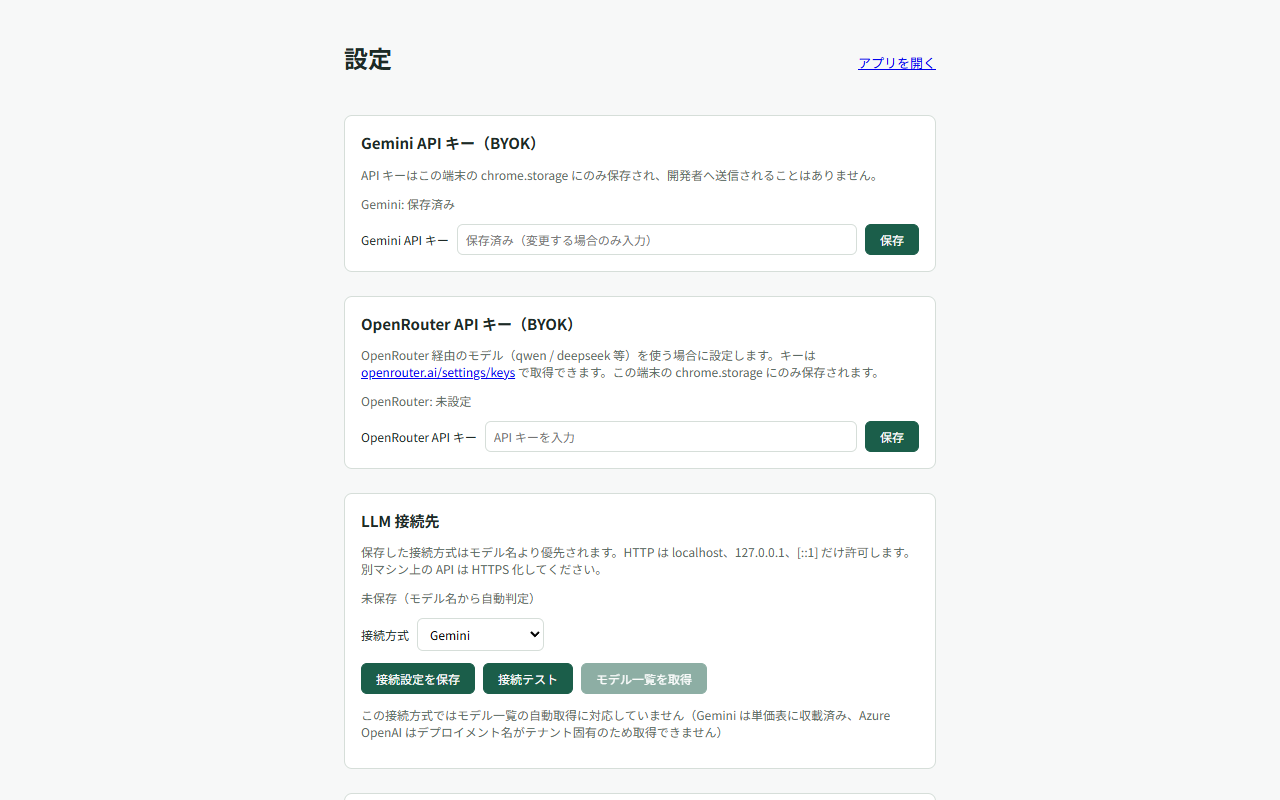
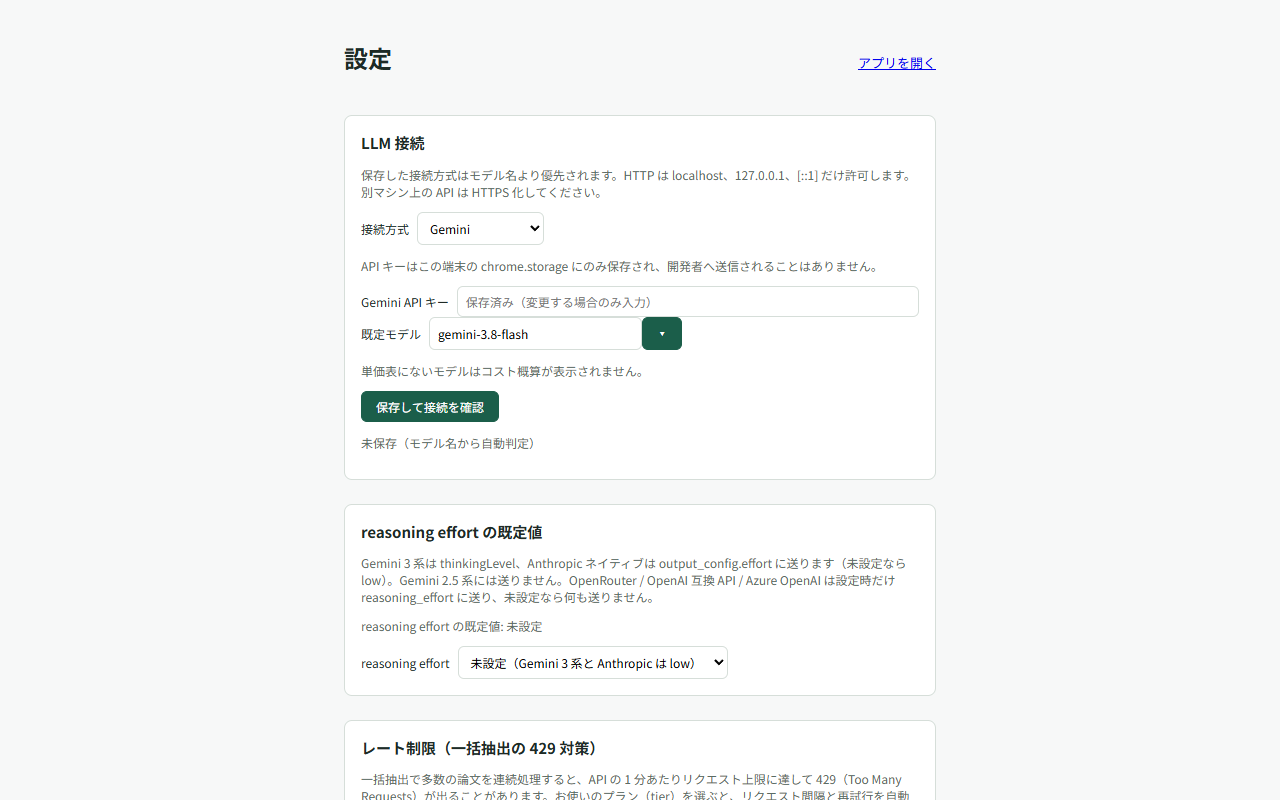
公開ページを再デプロイ（2026-10-17・master c0e3523）

Changed region(s): [[0.2812, 0.625, 0.7188, 1.0], [0.2812, 0.1562, 0.7188, 0.5625], [0.6562, 0.5, 0.7188, 0.5938]]

diff --git a/help.html b/help.html
@@ -3,7 +3,7 @@
      正典はこのファイル（master の hosted/）。デプロイ手順は hosted/README.md を参照。
      内容はワークフローレベルに留める（画面細部はアプリ内のリード文が担う。issue #214 §3）。
      文言は ja / en を両方持ち、表示は lang.js + CSS が片方だけに絞る（併記しない）。
-     version: 2026-10-11 -->
+     version: 2026-10-17 -->
 <html lang="ja">
   <head>
     <meta charset="utf-8" />
@@ -53,8 +53,8 @@
           <span class="en" lang="en">User guide</span>
         </h1>
         <p class="last-updated">
-          <span class="ja" lang="ja">最終更新: 2026-10-11 / 対象バージョン: v0.17.0</span>
-          <span class="en" lang="en">Last updated: 2026-10-11 / Covers v0.17.0</span>
+          <span class="ja" lang="ja">最終更新: 2026-10-17 / 対象バージョン: v0.19.0</span>
+          <span class="en" lang="en">Last updated: 2026-10-17 / Covers v0.19.0</span>
         </p>
 
         <nav class="toc" aria-label="目次" data-en-aria-label="Table of contents">
@@ -119,8 +119,8 @@
             </li>
             <li>
               <a href="#dual-review"
-                ><span class="ja" lang="ja">独立二重レビューと裁定</span
-                ><span class="en" lang="en">Independent dual review and adjudication</span></a
+                ><span class="ja" lang="ja">独立二重レビューと不一致の解消</span
+                ><span class="en" lang="en">Independent dual review and conflict resolution</span></a
               >
             </li>
             <li>
@@ -247,16 +247,16 @@
             <a href="screenshots/help-01-setup.png" target="_blank" rel="noopener noreferrer">
               <img
                 src="screenshots/help-01-setup.png"
-                alt="設定画面の上部。Gemini と OpenRouter の API キーの入力欄、LLM 接続先（接続方式の選択と「接続設定を保存」「接続テスト」のボタン）が縦に並ぶ"
-                data-en-alt="Top of the Options page: the Gemini and OpenRouter API key fields, then the LLM endpoint card with the connection type selector and the “Save connection settings” and “Test connection” buttons"
+                alt="設定画面の上部。LLM 接続の節に、接続方式の選択、API キーの入力欄、既定モデルの選択、「保存して接続を確認」のボタンが縦に並ぶ"
+                data-en-alt="Top of the Options page: the LLM connection card with the connection type selector, the API key field, the default model selector and the “Save and check connection” button"
                 width="1280"
                 height="800"
                 loading="lazy"
               />
             </a>
             <figcaption>
-              <span class="ja" lang="ja">設定画面の上部。API キーを入れて「保存」し、接続方式を選んで「接続テスト」で通るか確かめます。</span>
-              <span class="en" lang="en">The top of the Options page. Enter an API key and press Save, then choose the connection type and run the connection test.</span>
+              <span class="ja" lang="ja">設定画面の上部。接続方式を選び、API キーとモデルを入れて「保存して接続を確認」を押します。</span>
+              <span class="en" lang="en">The top of the Options page. Choose the connection type, enter an API key and a model, and press “Save and check connection”.</span>
             </figcaption>
           </figure>
           <div class="note">
@@ -443,10 +443,10 @@
           </p>
           <p>
             <span class="ja" lang="ja"
-              >グループに担当者をちょうど 2 名指定すると、その 2 名を裁定のペアとして使います。それ以外は実データからペアを推定します。担当外の判定は裁定・一致度から除外されます。裁定画面で「一致度を計算」を押すと、「キャリブレーションの一致度」でペア別の一致度も確認できます。</span
+              >グループに担当者をちょうど 2 名指定すると、その 2 名を裁定のペアとして使います。それ以外は実データからペアを推定します。担当外の判定は裁定・一致度から除外されます。不一致の解消画面で「一致度を計算」を押すと、「キャリブレーションの一致度」でペア別の一致度も確認できます。</span
             >
             <span class="en" lang="en"
-              >A group with exactly two assigned reviewers uses those reviewers as its adjudication pair; otherwise, the pair is inferred from recorded data. Judgments outside the assigned pair are excluded from adjudication and agreement. Press “Compute agreement” on the adjudication screen to also see agreement by pair under “Calibration agreement”.</span
+              >A group with exactly two assigned reviewers uses those reviewers as its adjudication pair; otherwise, the pair is inferred from recorded data. Judgments outside the assigned pair are excluded from adjudication and agreement. Press “Compute agreement” on the “Resolve conflicts” screen to also see agreement by pair under “Calibration agreement”.</span
             >
           </p>
           <h3 id="project-tours">
@@ -487,8 +487,8 @@
               >
             </li>
             <li>
-              <span class="ja" lang="ja"><strong>二重レビューと裁定</strong>: レビュアーの登録、担当セットの分割、不一致の裁定までを案内します。 オーナーに、取り込んだ文献があるときに表示されます。</span>
-              <span class="en" lang="en"><strong>Dual review and adjudication</strong>: Register reviewers, split assignment sets, and adjudicate disagreements. Shown to the owner once documents have been imported.</span>
+              <span class="ja" lang="ja"><strong>二重レビューと不一致の解消</strong>: レビュアーの登録、担当セットの分割、不一致の裁定までを案内します。 オーナーに、取り込んだ文献があるときに表示されます。</span>
+              <span class="en" lang="en"><strong>Dual review and conflict resolution</strong>: Register reviewers, split assignment sets, and adjudicate disagreements. Shown to the owner once documents have been imported.</span>
               <a href="https://youtu.be/BuGpgS_6HRw" target="_blank" rel="noopener noreferrer"
                 ><span class="ja" lang="ja">▶ 動画で見る（1:48）</span
                 ><span class="en" lang="en">▶ Watch video (1:48)</span></a
@@ -1157,10 +1157,10 @@
           </h3>
           <p>
             <span class="ja" lang="ja"
-              >検証画面または裁定画面で試験を開き、「論文に質問（AI）」を展開します。質問を入力し、入力トークン数と費用の概算を確認して「送信」を押します。オーナー・AI を使うレビュアー・裁定者が利用でき、独立入力のレビュアーには表示されません。</span
+              >検証画面または不一致の解消画面で試験を開き、「論文に質問（AI）」を展開します。質問を入力し、入力トークン数と費用の概算を確認して「送信」を押します。オーナー・AI を使うレビュアー・裁定者が利用でき、独立入力のレビュアーには表示されません。</span
             >
             <span class="en" lang="en"
-              >Open a study in verification or adjudication and expand “Ask the paper (AI)”. Enter a question, check the estimated input tokens and cost, then press “Send”. The panel is available to the owner, reviewers working with AI and adjudicators; it is hidden from independent reviewers.</span
+              >Open a study in verification or “Resolve conflicts” and expand “Ask the paper (AI)”. Enter a question, check the estimated input tokens and cost, then press “Send”. The panel is available to the owner, reviewers working with AI and adjudicators; it is hidden from independent reviewers.</span
             >
           </p>
           <p>
@@ -1199,10 +1199,10 @@
           </h3>
           <p>
             <span class="ja" lang="ja"
-              >検証・パイロット・裁定の画面には、保存中の件数が「保存中（1 件）」のように表示されます。表示が消えるまでタブを開いておいてください。保存中に閉じる・再読み込みなどでページを離れようとすると、ブラウザが確認を求めます。</span
+              >検証・パイロット・不一致の解消の画面には、保存中の件数が「保存中（1 件）」のように表示されます。表示が消えるまでタブを開いておいてください。保存中に閉じる・再読み込みなどでページを離れようとすると、ブラウザが確認を求めます。</span
             >
             <span class="en" lang="en"
-              >Verification, pilot and adjudication screens show the number of pending saves, for example “Saving (1)”. Keep the tab open until the indicator disappears. If you try to close, reload or otherwise leave the page while saves are pending, the browser asks for confirmation.</span
+              >Verification, pilot and “Resolve conflicts” screens show the number of pending saves, for example “Saving (1)”. Keep the tab open until the indicator disappears. If you try to close, reload or otherwise leave the page while saves are pending, the browser asks for confirmation.</span
             >
           </p>
         </section>
@@ -1263,9 +1263,13 @@
 
         <section id="dual-review">
           <h2>
-            <span class="ja" lang="ja">10. 独立二重レビューと裁定</span>
-            <span class="en" lang="en">10. Independent dual review and adjudication</span>
+            <span class="ja" lang="ja">10. 独立二重レビューと不一致の解消</span>
+            <span class="en" lang="en">10. Independent dual review and conflict resolution</span>
           </h2>
+          <p>
+            <span class="ja" lang="ja">検証画面には自分の判定だけが表示されます。オーナーと裁定者には「不一致の解消」への案内が表示され、自分が表示中の論文の判定を終えると「不一致を確認」からその論文へ移動できます。ほかに検証を終えた人の人数も表示されます。オーナーのダッシュボードには、自分も含めた「検証済みの人数」と、その論文の不一致の解消へのリンクが表示されます。人数は自分の判定完了後に読み込みます。検証画面では読み込み中の案内を表示し、失敗時は人数を省略します。ダッシュボードでは集計後に人数を読み込み、読み込み中・失敗時は「—」を表示します。不一致の解消では、判定の保存中は完了を待ってから一覧を更新します。レビュアーにはこれらの案内や人数は表示されません。</span>
+            <span class="en" lang="en">Verification shows only your own decisions. Owners and adjudicators see a link to “Resolve conflicts”. After completing the current study, use “Check conflicts” to open that study; the number of other reviewers who have finished is also shown. The owner's dashboard shows “Completed reviewers”, including the owner, with a link to resolve conflicts for that study. Counts load after you finish your decisions. Verification shows a loading message and omits the count if loading fails. The dashboard loads counts after its summary and shows “—” while loading or unavailable. Resolve conflicts waits for pending decisions to finish saving before refreshing the list. Reviewers do not see these links or counts.</span>
+          </p>
           <p>
             <span class="ja" lang="ja"
               >2 名で独立に抽出し、不一致を裁定する運用に対応しています。オーナーが Home
@@ -1282,16 +1286,16 @@
             <a href="screenshots/help-10-dual-review.png" target="_blank" rel="noopener noreferrer">
               <img
                 src="screenshots/help-10-dual-review.png"
-                alt="裁定画面。群構成の突き合わせ、左に PDF、右に不一致のセルの表（A と B の値が食い違う「群の N」）が見える"
-                data-en-alt="Adjudication screen: the arm matching card, the PDF on the left, and on the right the table of disagreeing cells (the arm N differs between reviewers A and B)"
+                alt="不一致の解消画面。群構成の突き合わせ、左に PDF、右に不一致のセルの表（A と B の値が食い違う「群の N」）が見える"
+                data-en-alt="Resolve conflicts screen: the arm matching card, the PDF on the left, and on the right the table of disagreeing cells (the arm N differs between reviewers A and B)"
                 width="1280"
                 height="800"
                 loading="lazy"
               />
             </a>
             <figcaption>
-              <span class="ja" lang="ja">裁定画面。2 人の判定が食い違うセルだけを表示し、根拠を見ながら確定します。</span>
-              <span class="en" lang="en">The adjudication screen. Only the cells where the two reviewers disagree are shown; decide them with the evidence at hand.</span>
+              <span class="ja" lang="ja">不一致の解消画面。2 人の判定が食い違うセルだけを表示し、根拠を見ながら確定します。</span>
+              <span class="en" lang="en">The “Resolve conflicts” screen. Only the cells where the two reviewers disagree are shown; decide them with the evidence at hand.</span>
             </figcaption>
           </figure>
           <ul>
@@ -1308,22 +1312,22 @@
             </li>
             <li>
               <span class="ja" lang="ja"
-                >2 名の検証が揃った試験は「裁定」画面で処理します。群構成を突き合わせ、一致セルは一括採用、不一致セルは個別に裁定して
+                >2 名の検証が揃った試験は「不一致の解消」画面で処理します。群構成を突き合わせ、一致セルは一括採用、不一致セルは個別に裁定して
                 consensus（確定版）を作ります。レビュアー間一致度（κ）も確認できます。</span
               >
               <span class="en" lang="en"
-                >Once both reviewers are done, the adjudication screen matches the arm structures, bulk-accepts agreeing
+                >Once both reviewers are done, the “Resolve conflicts” screen matches the arm structures, bulk-accepts agreeing
                 cells and lets you settle each disagreement into a consensus row. Inter-reviewer agreement (κ) is shown
                 as well.</span
               >
             </li>
             <li>
               <span class="ja" lang="ja"
-                >裁定画面では、セルごとに 2 名の根拠を並べ、誰の一覧にある引用か（A / B / A・B）を示します。AI
+                >不一致の解消画面では、セルごとに 2 名の根拠を並べ、誰の一覧にある引用か（A / B / A・B）を示します。AI
                 抽出を見ながら検証した人は、引用を直していなければ AI の引用が、独立入力の人は自分で足した引用が並びます。最終の根拠に採用する引用にチェックを入れます。最初に操作するまでは「最終の根拠はまだ選ばれていません」と表示し、自動では採用しません。</span
               >
               <span class="en" lang="en"
-                >On the adjudication screen, each cell lists both reviewers’ evidence and shows whose list each quote is in
+                >On the “Resolve conflicts” screen, each cell lists both reviewers’ evidence and shows whose list each quote is in
                 (A / B / A &amp; B). For a reviewer who verified with AI, this is the AI quotes unless they edited them; for an
                 independent reviewer, it is the quotes they added. Tick the quotes to adopt as final evidence. Until you
                 do, the cell shows “Final quotes have not been chosen”; nothing is adopted automatically.</span
@@ -1526,38 +1530,72 @@
           <ul>
             <li>
               <span class="ja" lang="ja"
-                ><strong>API キー（BYOK）</strong>: Gemini / OpenRouter
-                のキーを保存します。キーはブラウザ内（<code>chrome.storage.local</code>）にのみ保存され、開発者へ送信されることはありません。</span
+                ><strong>LLM 接続</strong>: 接続方式（Gemini / OpenRouter / Anthropic / Azure OpenAI / OpenAI 互換 API /
+                ローカル LLM）を選ぶと、その方式に要る欄（API キー、方式によっては URL）だけが出ます。キーは方式ごとに保存され、方式を切り替えても消えません。キーはブラウザ内（<code>chrome.storage.local</code>）にのみ保存され、開発者へ送信されることはありません（BYOK）。</span
               >
               <span class="en" lang="en"
-                ><strong>API keys (BYOK)</strong>: store your Gemini / OpenRouter keys. They stay in your browser
-                (<code>chrome.storage.local</code>) and are never sent to the developer.</span
-              >
-            </li>
-            <li>
-              <span class="ja" lang="ja"
-                ><strong>LLM 接続先</strong>: Gemini / OpenRouter / OpenAI 互換 API / Anthropic / Azure OpenAI
-                から選べます。OpenAI 互換 API は完全 URL を入力し、Chrome
-                の接続許可を与えて使います。<code>http://localhost</code>・<code>http://127.0.0.1</code>・<code
-                  >http://[::1]</code
-                >
-                のローカル LLM も指定でき、この場合は API キーを省略できます。</span
-              >
-              <span class="en" lang="en"
-                ><strong>Provider</strong>: Gemini, OpenRouter, an OpenAI-compatible endpoint, Anthropic or Azure OpenAI.
-                For OpenAI-compatible endpoints you enter the full URL and grant Chrome host permission; local LLMs on
-                <code>localhost</code> / <code>127.0.0.1</code> / <code>[::1]</code> are allowed and may omit the
-                key.</span
+                ><strong>LLM connection</strong>: choose a connection type (Gemini, OpenRouter, Anthropic, Azure OpenAI,
+                OpenAI-compatible API or Local LLM) and only the fields it needs appear (an API key, plus a URL for some
+                types). Keys are stored per type, so switching types does not erase them. They stay in your browser
+                (<code>chrome.storage.local</code>) and are never sent to the developer (BYOK).</span
               >
             </li>
             <li>
               <span class="ja" lang="ja"
                 ><strong>既定モデル</strong>: 新しい抽出の初期値になります（工場出荷の既定は
-                <code>gemini-3.8-flash</code>）。接続先によってはモデル一覧を自動取得できます。</span
+                <code>gemini-3.8-flash</code>）。候補には、選んだ接続方式のモデルだけが出ます。モデル欄に文字を打つと、その文字を含む候補に絞られます（例:
+                「sonnet」）。候補に無い名前も、そのまま打てば使えます。OpenRouter から取得した一覧には、構造化出力と画像の入力の両方に対応したモデルだけを出します。OpenRouter
+                から取得したモデルは、一覧と一緒に取得した単価で費用を見積もります（それ以外の接続方式で単価表に無いモデルは「概算不可」）。</span
               >
               <span class="en" lang="en"
                 ><strong>Default model</strong>: the initial choice for new runs (factory default
-                <code>gemini-3.8-flash</code>). For some providers the model list is fetched automatically.</span
+                <code>gemini-3.8-flash</code>). The list only shows models of the chosen connection type. Typing in the model
+                field narrows the suggestions to those containing the text (for example “sonnet”); you can also type any
+                name that is not suggested. The list fetched from OpenRouter only includes models that support both
+                structured output and image input. For models fetched from OpenRouter, the cost estimate uses the prices fetched
+                with the list (with other connection types, models not in the price list show “estimate unavailable”).</span
+              >
+            </li>
+            <li>
+              <span class="ja" lang="ja"
+                ><strong>保存して接続を確認</strong>: 押すと、設定を保存し、モデル一覧を取得し（取得できる方式のみ）、選んだモデルで短い呼び出しを送って、結果を
+                1 行で表示します。失敗したときは、API キーが受け付けられなかったのか、モデルがその方式に無いのかなど、どこで失敗したかを示します。取得したモデルは、スキーマ・パイロット・一括抽出の画面のモデル選択にも出ます。</span
+              >
+              <span class="en" lang="en"
+                ><strong>Save and check connection</strong>: saves the settings, fetches the model list (where the type
+                supports it), sends a short call with the chosen model, and shows the result on one line. On failure it
+                says where it failed, for example a rejected API key or a model that the type does not have. Fetched
+                models also appear in the model choice on the schema, pilot and full-extraction screens.</span
+              >
+            </li>
+            <li>
+              <span class="ja" lang="ja"
+                ><strong>ローカル LLM</strong>: 手元の PC で動かしている LLM（Ollama・LM Studio など）を使います。「Ollama」「LM
+                Studio」のボタンで URL が入ります。URL は <code>localhost</code>・<code>127.0.0.1</code>・<code
+                  >[::1]</code
+                >
+                に限られ、API キーは要りません。外部の OpenAI 互換サービスは「OpenAI 互換 API」を選び、完全 URL と API
+                キーを入力します（Chrome の接続許可も求められます）。</span
+              >
+              <span class="en" lang="en"
+                ><strong>Local LLM</strong>: use an LLM running on your own computer (Ollama, LM Studio and the like). The
+                “Ollama” and “LM Studio” buttons fill in the URL. The URL must be on <code>localhost</code> /
+                <code>127.0.0.1</code> / <code>[::1]</code>, and no API key is needed. For an external OpenAI-compatible
+                service, choose “OpenAI-compatible API” and enter the full URL and an API key (Chrome also asks for host
+                permission).</span
+              >
+            </li>
+            <li>
+              <span class="ja" lang="ja"
+                ><strong>reasoning effort の既定値</strong>: モデルが答える前に考える量を low / medium / high から選びます。low
+                ほど速く安くなります。未設定のときは、Gemini 3 系と Anthropic には low を送り、OpenRouter・OpenAI 互換 API・Azure
+                OpenAI には何も送りません（各サービスの既定どおり）。Gemini 2.5 系には送りません。</span
+              >
+              <span class="en" lang="en"
+                ><strong>Default reasoning effort</strong>: how much the model thinks before answering (low, medium or
+                high); lower is faster and cheaper. When unset, low is sent to Gemini 3 models and Anthropic, and nothing is
+                sent to OpenRouter, OpenAI-compatible APIs or Azure OpenAI (their own defaults apply). It is not sent to
+                Gemini 2.5 models.</span
               >
             </li>
             <li>
@@ -1583,16 +1621,16 @@
             <a href="screenshots/help-12-options.png" target="_blank" rel="noopener noreferrer">
               <img
                 src="screenshots/help-12-options.png"
-                alt="設定画面の下部。既定モデルの選択、レート制限のプラン（tier）、表示言語、使い方ガイドなどへのリンク"
-                data-en-alt="Lower part of the Options page: default model, rate-limit plan (tier), display language, and links to the guide and policies"
+                alt="設定画面の下部。reasoning effort の既定値、レート制限のプラン（tier）、表示言語、使い方ガイドなどへのリンク"
+                data-en-alt="Lower part of the Options page: default reasoning effort, rate-limit plan (tier), display language, and links to the guide and policies"
                 width="1280"
                 height="800"
                 loading="lazy"
               />
             </a>
             <figcaption>
-              <span class="ja" lang="ja">設定画面の下部。既定モデル、レート制限のプラン、表示言語を設定します。</span>
-              <span class="en" lang="en">The lower part of the Options page. Set the default model, the rate-limit plan and the display language.</span>
+              <span class="ja" lang="ja">設定画面の下部。reasoning effort の既定値、レート制限のプラン、表示言語を設定します。</span>
+              <span class="en" lang="en">The lower part of the Options page. Set the default reasoning effort, the rate-limit plan and the display language.</span>
             </figcaption>
           </figure>
         </section>
@@ -1618,6 +1656,25 @@
               files it created. A sheet created by someone else therefore has to be granted <strong>once</strong> through
               the Google file picker: press “Grant with Google” under the error and select the same sheet. One grant per
               user and sheet is enough.</span
+            >
+          </p>
+
+          <h3 id="troubleshooting-model-mismatch">
+            <span class="ja" lang="ja">「モデル『…』は今の接続方式では使えません」と出て実行できない</span>
+            <span class="en" lang="en">“The model … cannot be used with the current connection type”</span>
+          </h3>
+          <p>
+            <span class="ja" lang="ja"
+              >スキーマ・パイロット・一括抽出の画面で選んでいるモデルが、設定画面で保存した接続方式のものではありません（例: 接続方式が
+              Anthropic なのに <code>gemini-3.8-flash</code>）。このまま送ると接続先がモデルを見つけられずに失敗するため、実行ボタンを押せなくしています。その画面のモデル欄で、今の接続方式のモデルを選び直してください。質問パネルで出たときは、設定画面の「LLM
+              接続」で既定モデルを選び直します。</span
+            >
+            <span class="en" lang="en"
+              >The model chosen on the schema, pilot or full-extraction screen does not belong to the connection type
+              saved in Options (for example <code>gemini-3.8-flash</code> while the type is Anthropic). Sending it would
+              fail because the provider cannot find the model, so the run button is disabled. Choose a model of the
+              current type in that screen’s model field. If it appears in the question panel, choose the default model
+              again under “LLM connection” in Options.</span
             >
           </p>
 
